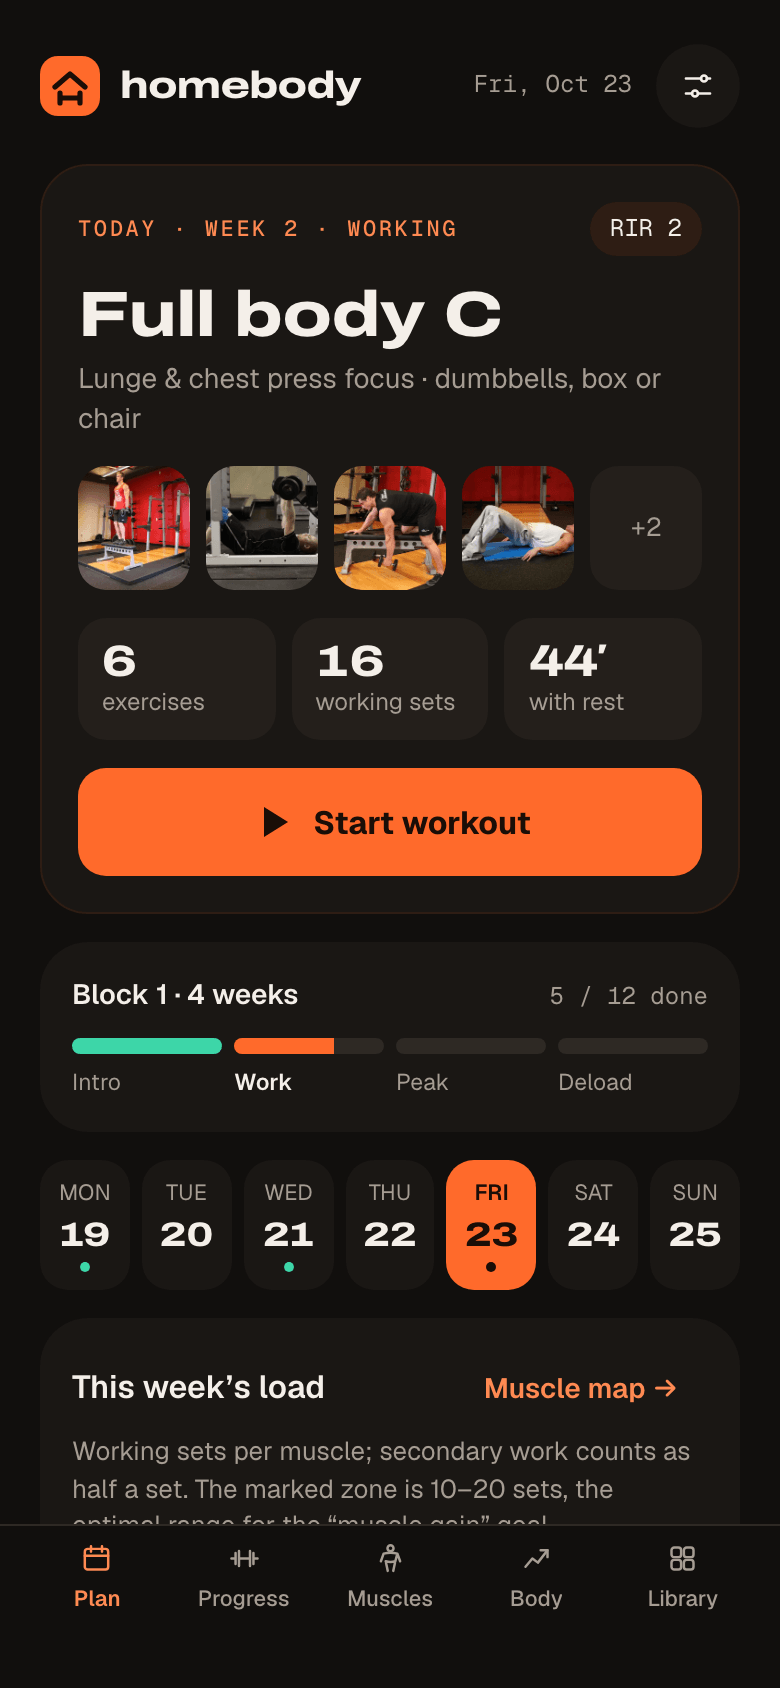
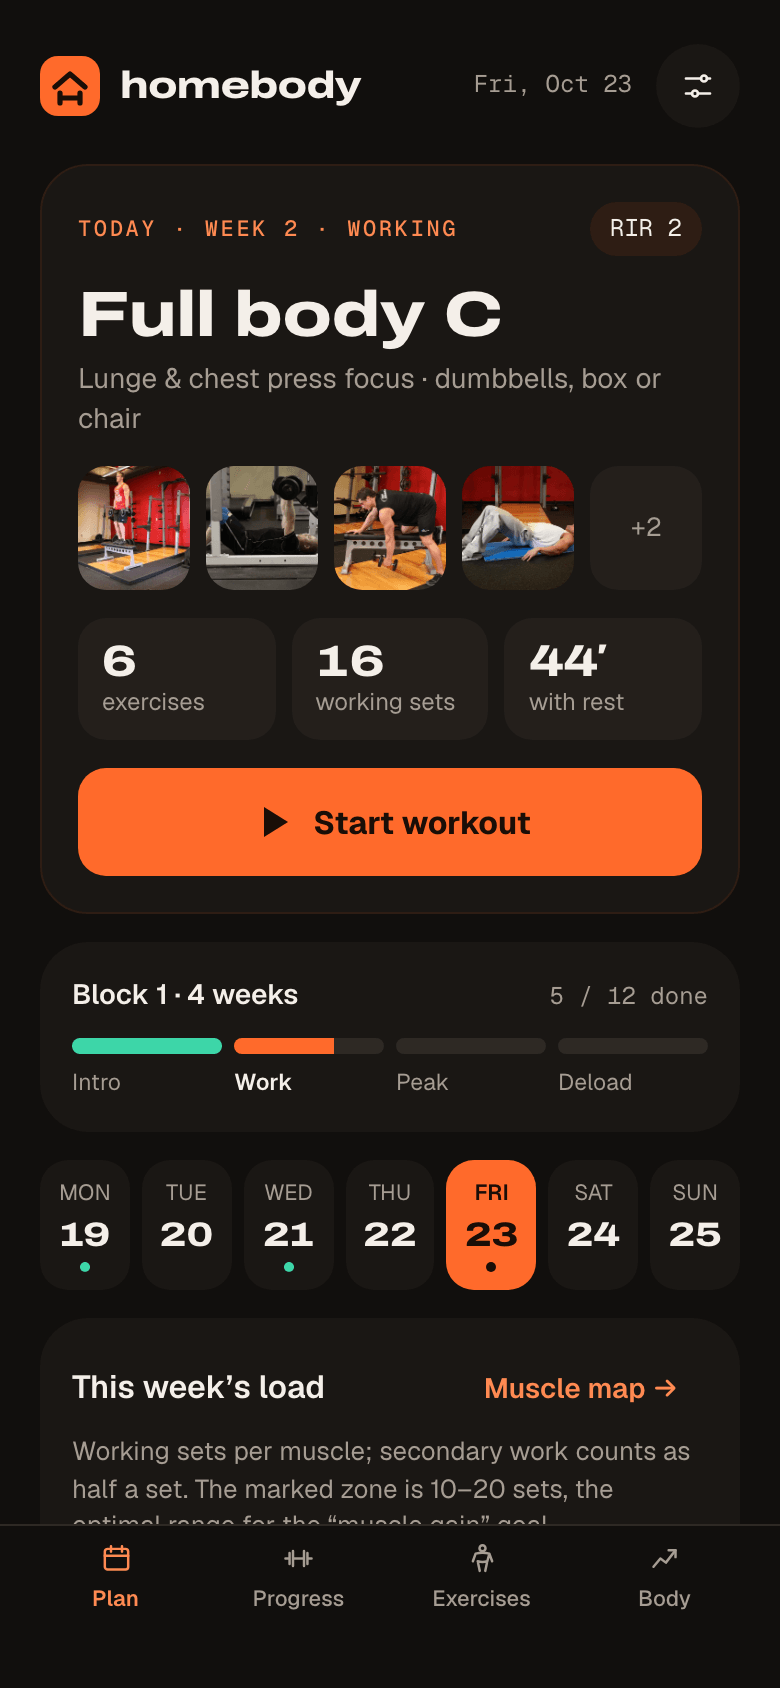
docs: capture the README images again for the exercises screen

Changed region(s): [[0.2462, 0.8934, 0.7077, 0.955], [0.8308, 0.8934, 0.9231, 0.955], [0.0923, 0.8934, 0.1846, 0.955]]

diff --git a/README.md b/README.md
@@ -33,11 +33,11 @@ the browser, and can be installed as an app.
   <tr>
     <td width="33%"><img src="docs/assets/screens/plan-dark.png" alt="Plan screen"></td>
     <td width="33%"><img src="docs/assets/screens/workout-dark.png" alt="Workout screen"></td>
-    <td width="33%"><img src="docs/assets/screens/muscles-dark.png" alt="Muscle map"></td>
+    <td width="33%"><img src="docs/assets/screens/map-dark.png" alt="Muscle heat map"></td>
   </tr>
   <tr>
     <td width="33%"><img src="docs/assets/screens/progress-dark.png" alt="Progress screen"></td>
-    <td width="33%"><img src="docs/assets/screens/library-dark.png" alt="Exercise library"></td>
+    <td width="33%"><img src="docs/assets/screens/exercises-dark.png" alt="Exercise catalog"></td>
     <td width="33%"><img src="docs/assets/screens/body-dark.png" alt="Body screen"></td>
   </tr>
 </table>
@@ -64,11 +64,11 @@ the browser, and can be installed as an app.
 - Swap an exercise for an alternative that trains the same muscles, by hand or at random.
 - The screen stays awake while you train.
 
-**Muscles**
+**Exercises**
 
-- A front and back body map with 17 muscle groups.
+- A front and back body map with 17 muscle groups: tap a muscle to see what trains it.
 - Weekly volume as a heat map, planned or actually performed, rated against your goal.
-- A library of 141 exercises with search, filters and three levels of detail.
+- A catalog of 141 exercises under the map, with search, filters and three levels of detail.
 
 **Body**
 
@@ -168,7 +168,7 @@ src/
   store/         state, transforms, derived plan, persistence, backup
   i18n/          setup, locales/en.json, locales/ru.json, formatting
   components/    shared UI building blocks
-  features/      plan, session, progress, muscles, library, body, settings
+  features/      plan, session, progress, exercises, body, settings
   app/           shell, tab bar, service worker registration
   styles/        design tokens, fonts, base styles
 data/            exercises.json, the dataset
